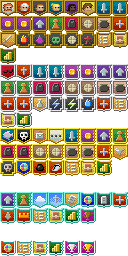
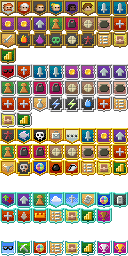
v3.1.0: added 4 new badges to the code (disabled out of debug for now)

diff --git a/core/src/main/java/com/shatteredpixel/shatteredpixeldungeon/Badges.java b/core/src/main/java/com/shatteredpixel/shatteredpixeldungeon/Badges.java
@@ -40,6 +40,7 @@ import com.shatteredpixel.shatteredpixeldungeon.messages.Messages;
 import com.shatteredpixel.shatteredpixeldungeon.scenes.PixelScene;
 import com.shatteredpixel.shatteredpixeldungeon.utils.GLog;
 import com.watabou.utils.Bundle;
+import com.watabou.utils.DeviceCompat;
 import com.watabou.utils.FileUtils;
 
 import java.io.IOException;
@@ -133,42 +134,44 @@ public class Badges {
 		HIGH_SCORE_2                ( 57 ),
 
 		//gold
-		PIRANHAS                    ( 64 ),
-		GRIM_WEAPON                 ( 65 ),
+		ENEMY_HAZARDS               ( 64 ),
+		PIRANHAS                    ( 65 ),
+		GRIM_WEAPON                 ( 66 ),
 		BAG_BOUGHT_VELVET_POUCH,
 		BAG_BOUGHT_SCROLL_HOLDER,
 		BAG_BOUGHT_POTION_BANDOLIER,
 		BAG_BOUGHT_MAGICAL_HOLSTER,
-		ALL_BAGS_BOUGHT             ( 66 ),
-		MASTERY_COMBO               ( 67 ),
-		MONSTERS_SLAIN_5            ( 68 ),
-		GOLD_COLLECTED_5            ( 69 ),
-		ITEM_LEVEL_4                ( 70 ),
-		LEVEL_REACHED_4             ( 71 ),
-		STRENGTH_ATTAINED_4         ( 72 ),
-		STRENGTH_ATTAINED_5         ( 73 ),
-		FOOD_EATEN_4                ( 74 ),
-		FOOD_EATEN_5                ( 75 ),
-		ITEMS_CRAFTED_4             ( 76 ),
-		ITEMS_CRAFTED_5             ( 77 ),
-		BOSS_SLAIN_4                ( 78 ),
+		ALL_BAGS_BOUGHT             ( 67 ),
+		MASTERY_COMBO               ( 68 ),
+		MONSTERS_SLAIN_5            ( 69 ),
+		GOLD_COLLECTED_5            ( 70 ),
+		ITEM_LEVEL_4                ( 71 ),
+		LEVEL_REACHED_4             ( 72 ),
+		STRENGTH_ATTAINED_4         ( 73 ),
+		STRENGTH_ATTAINED_5         ( 74 ),
+		FOOD_EATEN_4                ( 75 ),
+		FOOD_EATEN_5                ( 76 ),
+		ITEMS_CRAFTED_4             ( 77 ),
+		ITEMS_CRAFTED_5             ( 78 ),
+		BOSS_SLAIN_4                ( 79 ),
 		ALL_RINGS_IDENTIFIED        , //still exists internally for pre-2.5 saves
 		ALL_ARTIFACTS_IDENTIFIED    , //still exists internally for pre-2.5 saves
-		ALL_RARE_ENEMIES            ( 79, BadgeType.JOURNAL ), //no longer all, just 10 as of v3.1
-		DEATH_FROM_GRIM_TRAP        ( 80 ), //also disintegration traps
-		VICTORY                     ( 81 ),
-		BOSS_CHALLENGE_1            ( 82 ),
-		BOSS_CHALLENGE_2            ( 83 ),
-		RESEARCHER_3                ( 84, BadgeType.JOURNAL ),
-		GAMES_PLAYED_3              ( 85, BadgeType.GLOBAL ),
-		HIGH_SCORE_3                ( 86 ),
+		ALL_RARE_ENEMIES            ( 80, BadgeType.JOURNAL ), //no longer all, just 10 as of v3.1
+		DEATH_FROM_GRIM_TRAP        ( 81 ), //also disintegration traps
+		VICTORY                     ( 82 ),
+		BOSS_CHALLENGE_1            ( 83 ),
+		BOSS_CHALLENGE_2            ( 84 ),
+		RESEARCHER_3                ( 85, BadgeType.JOURNAL ),
+		GAMES_PLAYED_3              ( 86, BadgeType.GLOBAL ),
+		HIGH_SCORE_3                ( 87 ),
 
 		//platinum
-		ITEM_LEVEL_5                ( 96 ),
-		LEVEL_REACHED_5             ( 97 ),
-		HAPPY_END                   ( 98 ),
-		HAPPY_END_REMAINS           ( 99 ),
-		RODNEY                      ( 100, BadgeType.JOURNAL ),
+		MANY_BUFFS                  ( 96 ),
+		ITEM_LEVEL_5                ( 97 ),
+		LEVEL_REACHED_5             ( 98 ),
+		HAPPY_END                   ( 99 ),
+		HAPPY_END_REMAINS           ( 100 ),
+		RODNEY                      ( 101, BadgeType.JOURNAL ),
 		ALL_WEAPONS_IDENTIFIED      , //still exists internally for pre-2.5 saves
 		ALL_ARMOR_IDENTIFIED        , //still exists internally for pre-2.5 saves
 		ALL_WANDS_IDENTIFIED        , //still exists internally for pre-2.5 saves
@@ -179,8 +182,8 @@ public class Badges {
 		VICTORY_HUNTRESS,
 		VICTORY_DUELIST,
 		VICTORY_CLERIC,
-		VICTORY_ALL_CLASSES         ( 101, BadgeType.GLOBAL ),
-		DEATH_FROM_ALL              ( 102, BadgeType.GLOBAL ),
+		VICTORY_ALL_CLASSES         ( 102, BadgeType.GLOBAL ),
+		DEATH_FROM_ALL              ( 103, BadgeType.GLOBAL ),
 		BOSS_SLAIN_3_GLADIATOR,
 		BOSS_SLAIN_3_BERSERKER,
 		BOSS_SLAIN_3_WARLOCK,
@@ -193,21 +196,23 @@ public class Badges {
 		BOSS_SLAIN_3_MONK,
 		BOSS_SLAIN_3_PRIEST,
 		BOSS_SLAIN_3_PALADIN,
-		BOSS_SLAIN_3_ALL_SUBCLASSES ( 103, BadgeType.GLOBAL ),
-		BOSS_CHALLENGE_3            ( 104 ),
-		BOSS_CHALLENGE_4            ( 105 ),
-		RESEARCHER_4                ( 106, BadgeType.JOURNAL ),
-		GAMES_PLAYED_4              ( 107, BadgeType.GLOBAL ),
-		HIGH_SCORE_4                ( 108 ),
-		CHAMPION_1                  ( 109 ),
+		BOSS_SLAIN_3_ALL_SUBCLASSES ( 104, BadgeType.GLOBAL ),
+		BOSS_CHALLENGE_3            ( 105 ),
+		BOSS_CHALLENGE_4            ( 106 ),
+		RESEARCHER_4                ( 107, BadgeType.JOURNAL ),
+		GAMES_PLAYED_4              ( 108, BadgeType.GLOBAL ),
+		HIGH_SCORE_4                ( 109 ),
+		CHAMPION_1                  ( 110 ),
 
 		//diamond
-		BOSS_CHALLENGE_5            ( 120 ),
-		RESEARCHER_5                ( 121, BadgeType.JOURNAL ),
-		GAMES_PLAYED_5              ( 122, BadgeType.GLOBAL ),
-		HIGH_SCORE_5                ( 123 ),
-		CHAMPION_2                  ( 124 ),
-		CHAMPION_3                  ( 125 );
+		PACIFIST_ASCENT             ( 120 ),
+		TAKING_THE_MICK             ( 121 ),
+		BOSS_CHALLENGE_5            ( 122 ),
+		RESEARCHER_5                ( 123, BadgeType.JOURNAL ),
+		GAMES_PLAYED_5              ( 124, BadgeType.GLOBAL ),
+		HIGH_SCORE_5                ( 125 ),
+		CHAMPION_2                  ( 126 ),
+		CHAMPION_3                  ( 127 );
 
 		public boolean meta;
 
@@ -1202,12 +1207,16 @@ public class Badges {
 	};
 
 	//don't show the later badge if the earlier one isn't unlocked
+	//we aren't too aggressive with this, mainly just want to prevent boss spoilers,
+	// and all diamond tier badges must have a gold/plat prerequisite
 	private static final Badge[][] prerequisiteBadges = new Badge[][]{
 			{Badge.BOSS_SLAIN_1, Badge.BOSS_CHALLENGE_1},
 			{Badge.BOSS_SLAIN_2, Badge.BOSS_CHALLENGE_2},
 			{Badge.BOSS_SLAIN_3, Badge.BOSS_CHALLENGE_3},
 			{Badge.BOSS_SLAIN_4, Badge.BOSS_CHALLENGE_4},
 			{Badge.VICTORY,      Badge.BOSS_CHALLENGE_5},
+			{Badge.HAPPY_END,    Badge.PACIFIST_ASCENT},
+			{Badge.VICTORY,      Badge.TAKING_THE_MICK}
 	};
 
 	//If the summary badge is unlocked, don't show the component badges
@@ -1263,6 +1272,13 @@ public class Badges {
 
 		for (Badge[] tierReplace : tierBadgeReplacements){
 			leaveWorst( badges, tierReplace );
+		}
+
+		if (!DeviceCompat.isDebug()){
+			badges.remove(Badge.ENEMY_HAZARDS);
+			badges.remove(Badge.MANY_BUFFS);
+			badges.remove(Badge.PACIFIST_ASCENT);
+			badges.remove(Badge.TAKING_THE_MICK);
 		}
 
 		Collections.sort( badges );
